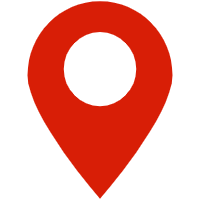
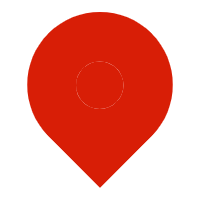
优化显示

diff --git a/src/components/AreaMap.vue b/src/components/AreaMap.vue
@@ -36,8 +36,8 @@ export default {
       iconIndo: {
         url: area,
         size: {
-          width: 40,
-          height: 40
+          width: 30,
+          height: 30
         }
       }
     };
@@ -47,11 +47,11 @@ export default {
     // url: 'http://developer.baidu.com/map/jsdemo/img/fox.gif',
     handler({ BMap, map }) {
       console.log(BMap, map);
-      //121.194633,30.043997
-      this.center.lng = 121.194633;
-      this.center.lat = 30.043997;
+      //121.200917,30.050531
+      this.center.lng = 121.200917;
+      this.center.lat = 30.050531;
       this.markerPoint = this.center;
-      this.zoom = 16;
+      this.zoom = 18;
     }
   }
 };

diff --git a/src/main.js b/src/main.js
@@ -16,6 +16,7 @@ Vue.use(BaiduMap, {
   // ak 是在百度地图开发者平台申请的密钥 详见 http://lbsyun.baidu.com/apiconsole/key */
   ak: "eBRLlQlHgoayk0sfP2mg8G3sLIqZyLPg"
 });
+
 // 引入css
 import "./assets/style/default.styl";
 

diff --git a/src/views/index/components/CardBox.vue b/src/views/index/components/CardBox.vue
@@ -55,7 +55,8 @@ export default {
     display flex
     flex-flow wrap
     li
-      width 274px
+      flex 1
+      max-width 274px
       height 368px
       &:nth-child(n+2)
         margin-left 40px

diff --git a/src/App.vue b/src/App.vue
@@ -5,7 +5,6 @@
     <footer-com></footer-com>
   </div>
 </template>
-
 <script>
 import HeaderCom from './components/HeaderCom.vue';
 import FooterCom from './components/FooterCom.vue';

diff --git a/src/views/Demo.vue b/src/views/Demo.vue
@@ -1,6 +1,6 @@
 <template>
   <div class="wrapper">
-      <img src="../assets/ui/ui-08.jpeg" alt="">
+      <img src="../assets/ui/index-01.jpg" alt="">
   </div>
 </template>
 <script>
